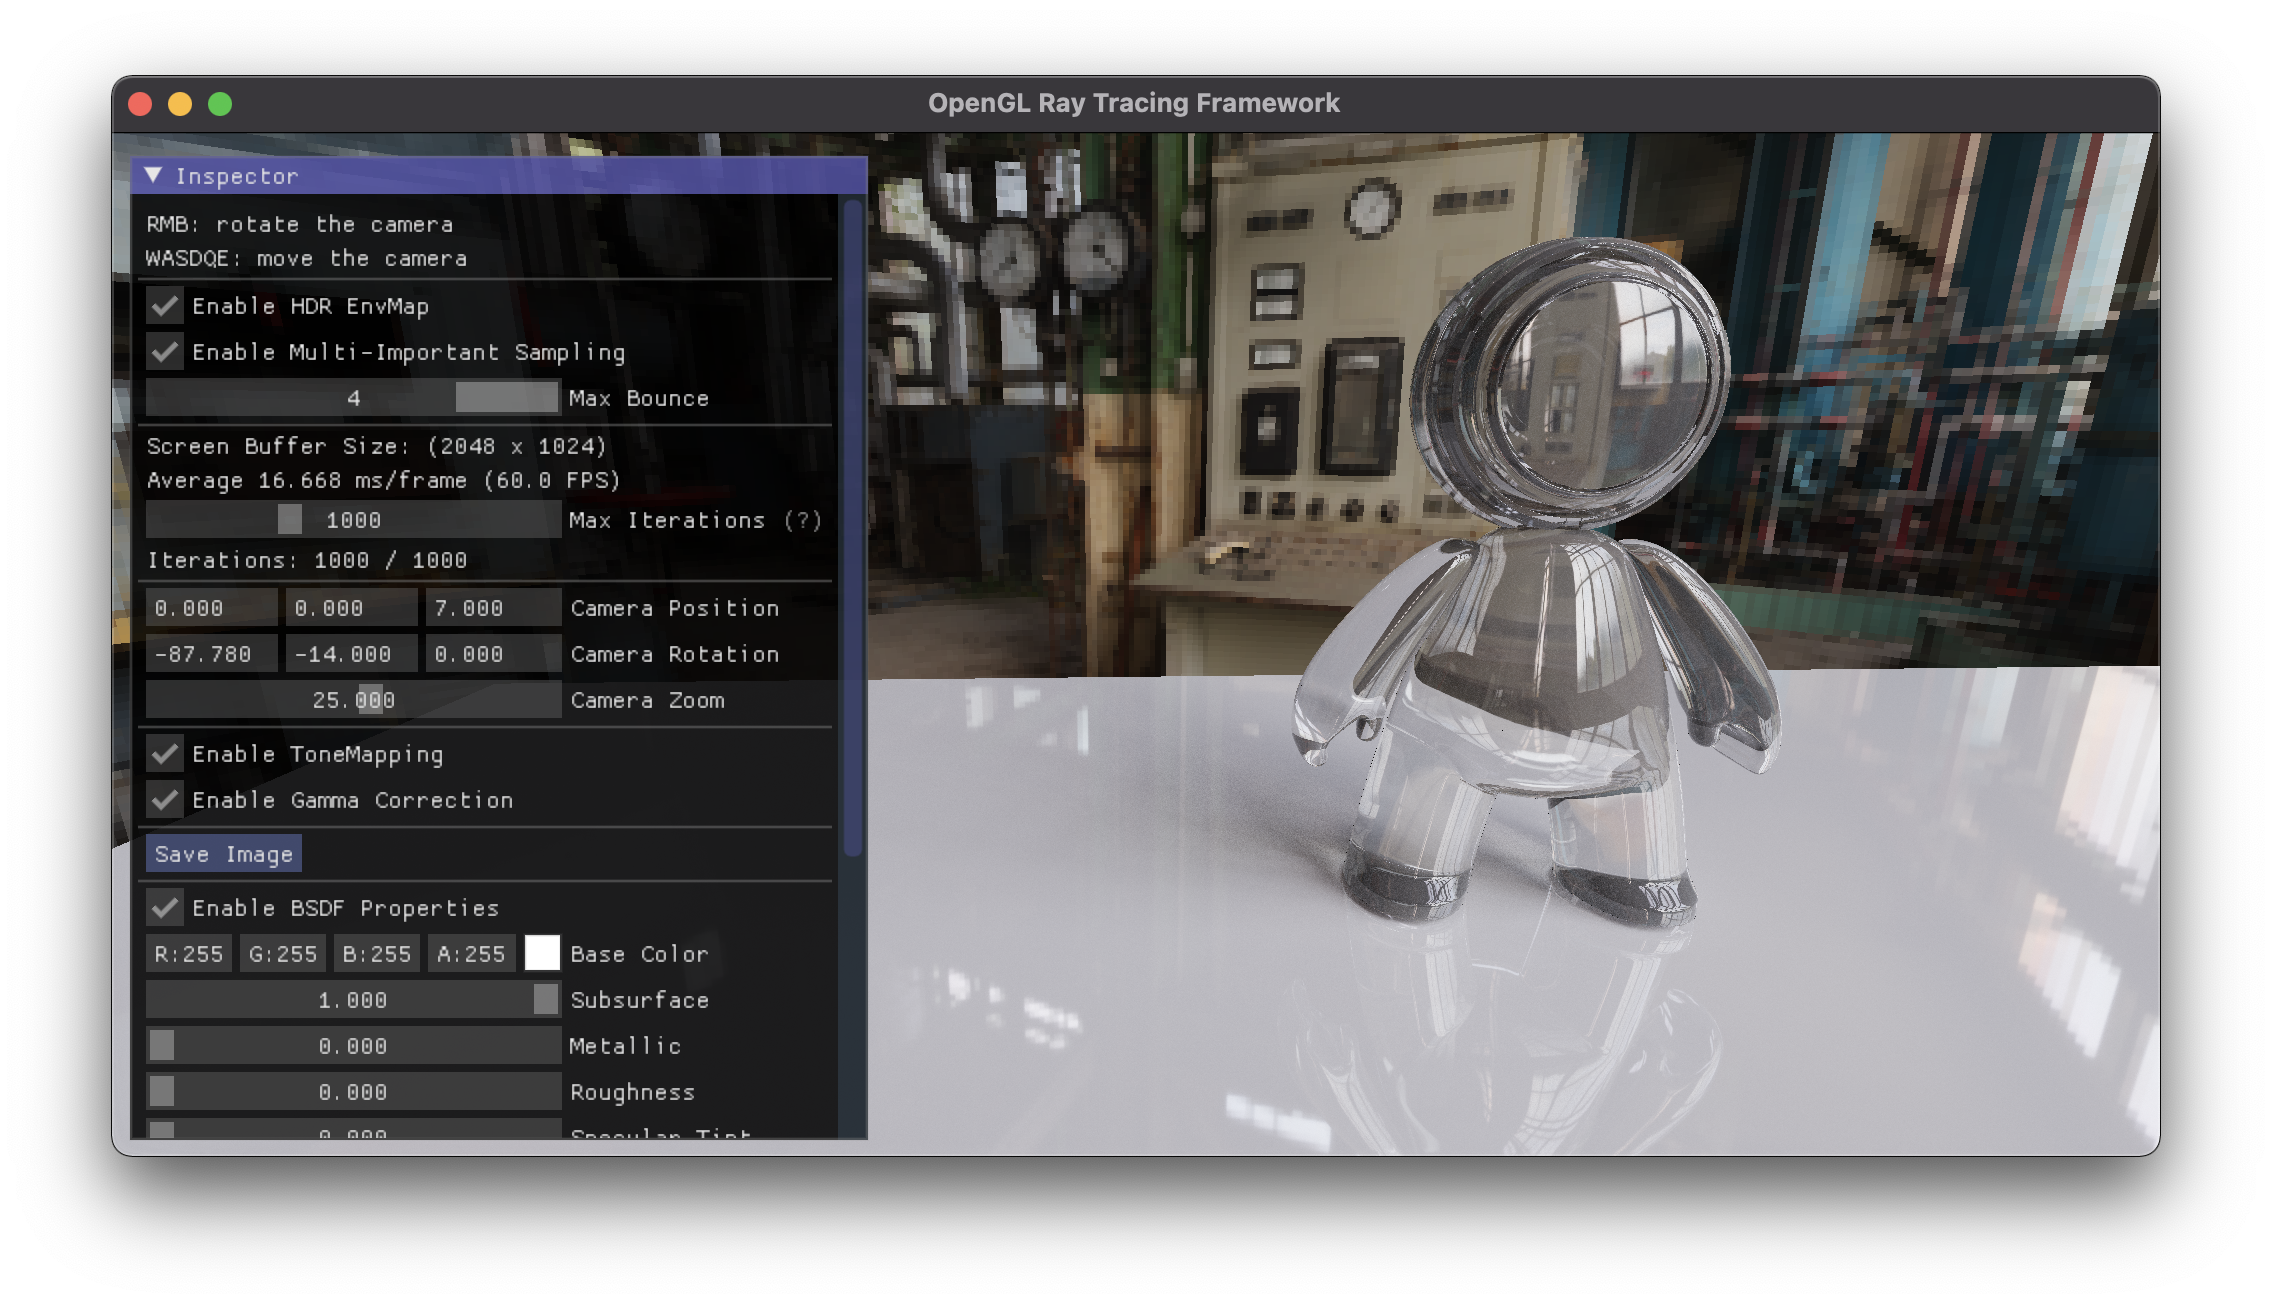
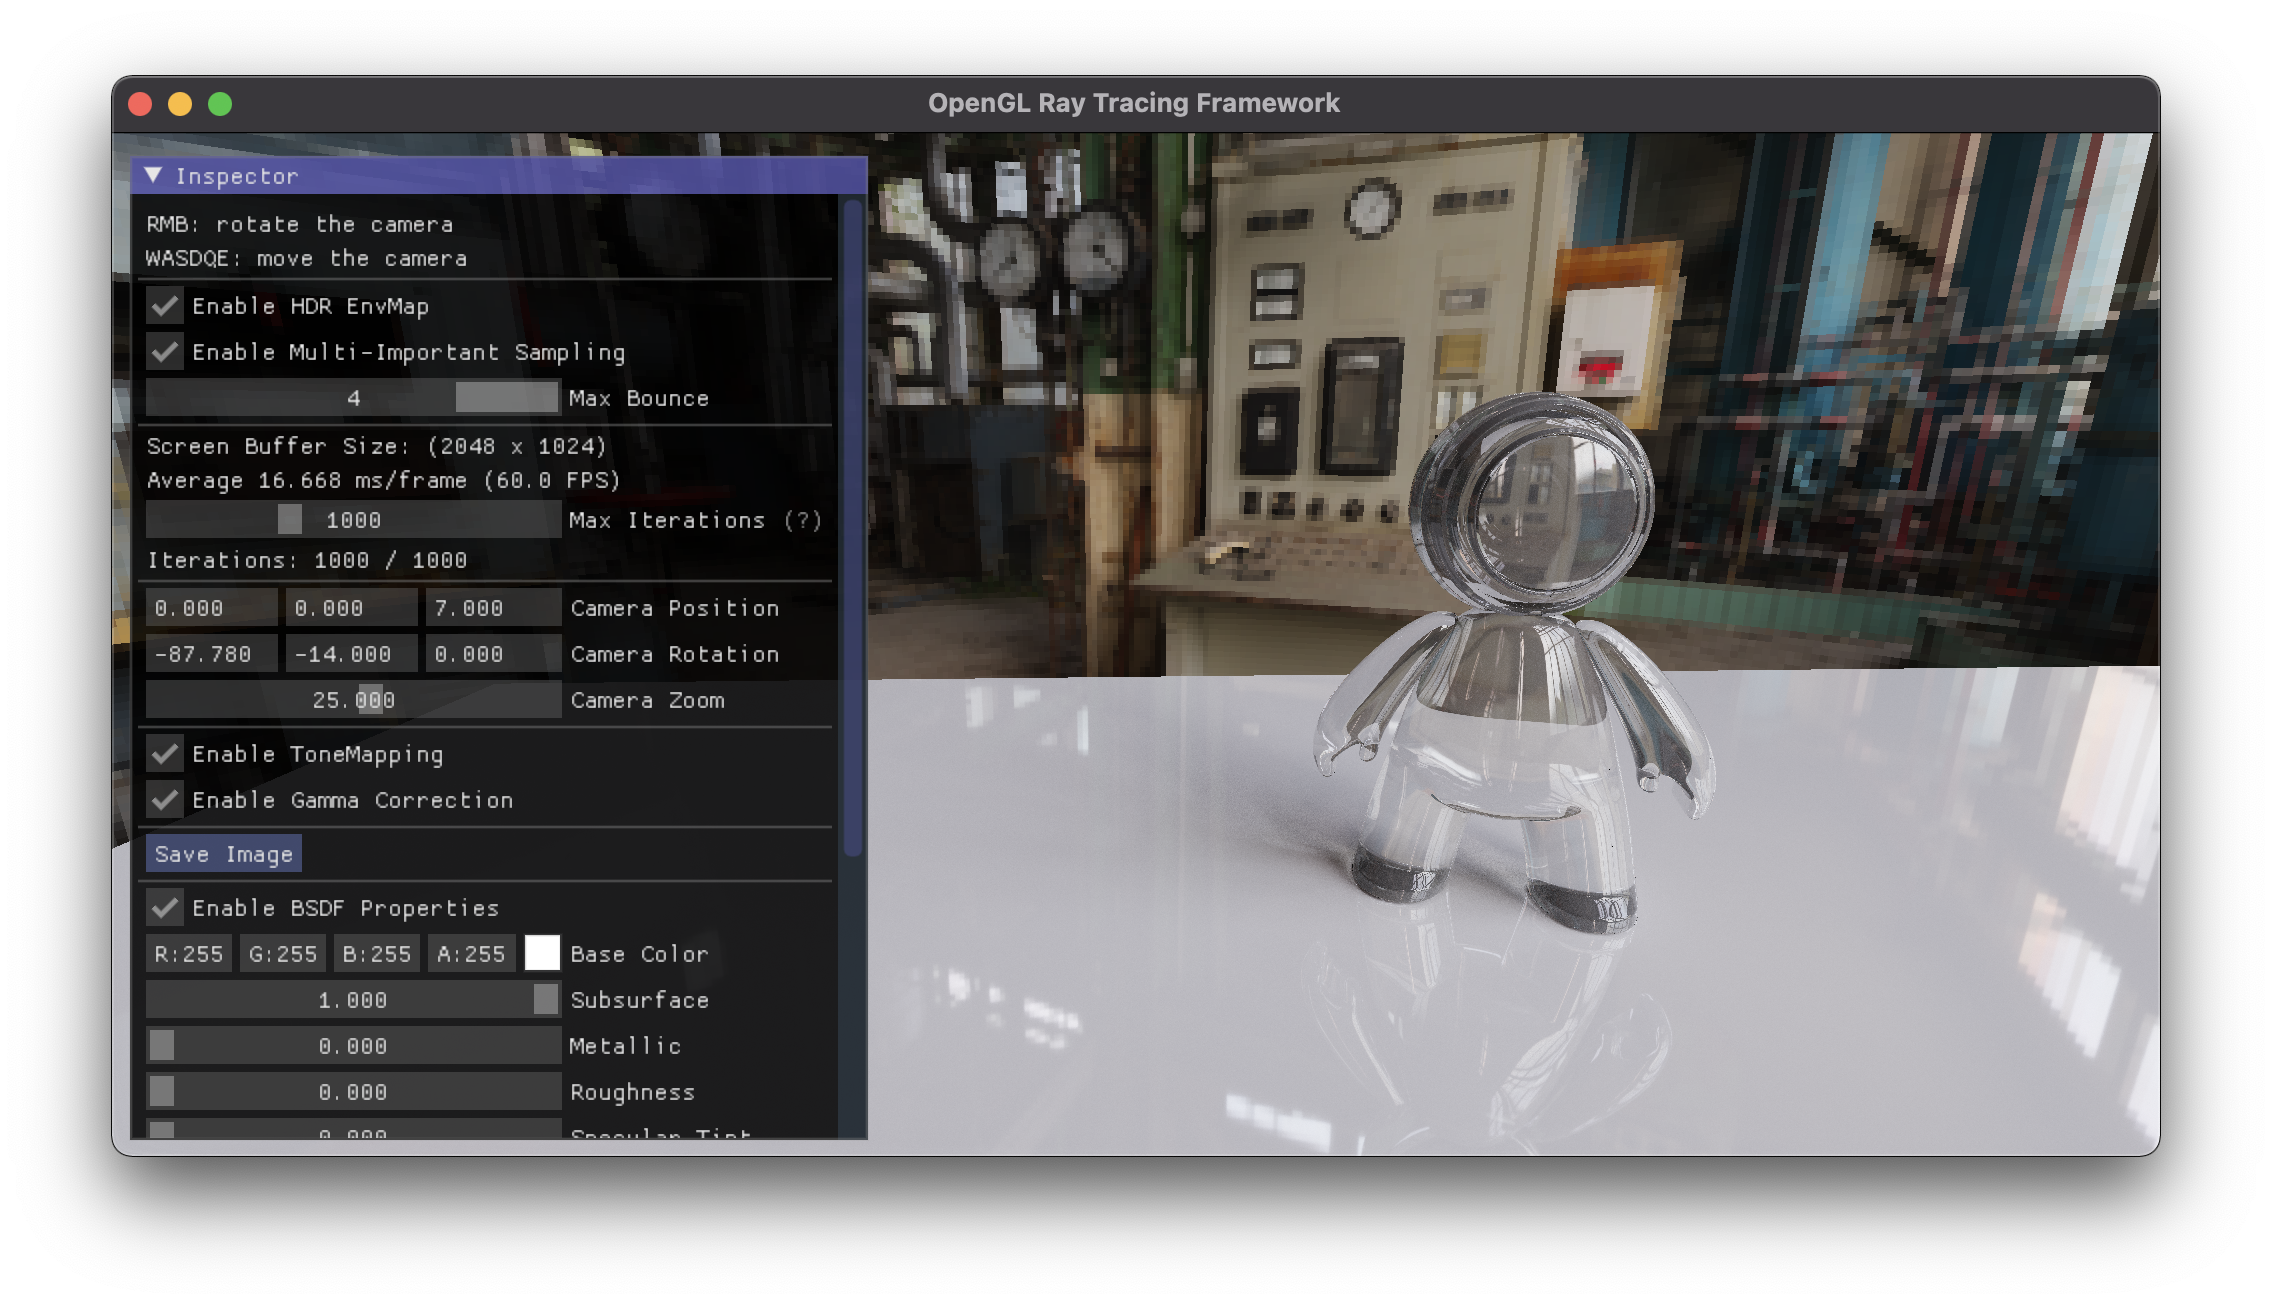
Handle OSX OpenGL version

Changed region(s): [[0.5625, 0.184, 0.7812, 0.7362]]

diff --git a/src/sources/main.cpp b/src/sources/main.cpp
@@ -77,9 +77,15 @@ int hdrResolution;
 int main() {
 
     glfwInit();
+#ifdef __APPLE__
+    const char *glsl_version = "#version 410";
+    glfwWindowHint(GLFW_CONTEXT_VERSION_MAJOR, 4);
+    glfwWindowHint(GLFW_CONTEXT_VERSION_MINOR, 1);
+#else
     const char *glsl_version = "#version 450";
     glfwWindowHint(GLFW_CONTEXT_VERSION_MAJOR, 4);
     glfwWindowHint(GLFW_CONTEXT_VERSION_MINOR, 5);
+#endif
     glfwWindowHint(GLFW_OPENGL_PROFILE, GLFW_OPENGL_CORE_PROFILE);
 
 #ifdef __APPLE__
@@ -117,7 +123,9 @@ int main() {
     Shader RayTracerShader(vertexShaderPath,"../../src/shaders/fragment_shader_ray_tracing.glsl");
     Shader ScreenShader(vertexShaderPath, "../../src/shaders/fragment_shader_screen.glsl");
     Shader ToneMappingShader(vertexShaderPath,"../../src/shaders/fragment_shader_tone_mapping.glsl");
+#ifndef __APPLE__
     Shader CompShader("../../src/shaders/compute_shader_test.glsl");
+#endif
 
     Screen screen;
     screen.InitScreenBind();
@@ -213,11 +221,11 @@ int main() {
 
     Model boy_body("../../resources/objects/substance_boy/body.obj");
     getTriangle(boy_body.meshes, triangles, current_material,
-                getTransformMatrix(vec3(0, -100, 0), vec3(1.7, -1.25, 3.5), vec3(0.8)), true);
+                getTransformMatrix(vec3(0, -110, 0), vec3(1.7, -1.25, 3.5), vec3(0.8)), true);
 
     Model boy_head("../../resources/objects/substance_boy/head.obj");
     getTriangle(boy_head.meshes, triangles, current_material,
-                getTransformMatrix(vec3(0, -100, 0), vec3(1.7, -0.33, 3.6), vec3(0.8)), true);
+                getTransformMatrix(vec3(0, -95, 0), vec3(1.7, -0.33, 3.6), vec3(0.8)), true);
 
 #pragma endregion
 
@@ -340,6 +348,7 @@ int main() {
         cameraRotation[i] = camera.Rotation[i];
     }
 
+#ifndef __APPLE__
     // dimensions of the image
     GLuint tex_output;
     glGenTextures(1, &tex_output);
@@ -372,7 +381,7 @@ int main() {
 
     // glGetIntegerv(GL_MAX_COMPUTE_WORK_GROUP_INVOCATIONS, &work_grp_inv);
     // printf("max local work group invocations %i\n", work_grp_inv);
-
+#endif
 
     // Render Loop
     // -----------
@@ -590,20 +599,22 @@ int main() {
             screen.DrawScreen();
         }
 
-        // {
-        //     CompShader.use();
-        //     // glBindImageTexture(0, tex, 0, GL_FALSE, 0, GL_WRITE_ONLY, GL_RGBA32F);
-        //     glDispatchCompute((GLuint)width, (GLuint)height, 1);
-        //     glMemoryBarrier(GL_SHADER_IMAGE_ACCESS_BARRIER_BIT);
-        //
-        //     glClearColor(0.2f, 0.3f, 0.3f, 1.0f);
-        //     glClear(GL_COLOR_BUFFER_BIT);
-        //
-        //     ScreenShader.use();
-        //     glActiveTexture(GL_TEXTURE0);
-        //     glBindTexture(GL_TEXTURE_2D, tex_output);
-        //     screen.DrawScreen();
-        // }
+#ifndef __APPLE__
+        {
+            CompShader.use();
+            // glBindImageTexture(0, tex, 0, GL_FALSE, 0, GL_WRITE_ONLY, GL_RGBA32F);
+            glDispatchCompute((GLuint)width, (GLuint)height, 1);
+            glMemoryBarrier(GL_SHADER_IMAGE_ACCESS_BARRIER_BIT);
+
+            glClearColor(0.2f, 0.3f, 0.3f, 1.0f);
+            glClear(GL_COLOR_BUFFER_BIT);
+
+            ScreenShader.use();
+            glActiveTexture(GL_TEXTURE0);
+            glBindTexture(GL_TEXTURE_2D, tex_output);
+            screen.DrawScreen();
+        }
+#endif
 
         ImGui::Render();
         ImGui_ImplOpenGL3_RenderDrawData(ImGui::GetDrawData());

diff --git a/src/core/Shader.h b/src/core/Shader.h
@@ -44,6 +44,14 @@ public:
             // 转化到 string
             vertexCode = vShaderStream.str();
             fragmentCode = fShaderStream.str();
+
+#ifdef __APPLE__
+            vertexCode = "\n#version 410\n" + vertexCode;
+            fragmentCode = "\n#version 410\n" + fragmentCode;
+#else
+            vertexCode = "\n#version 450\n" + vertexCode;
+            fragmentCode = "\n#version 450\n" + fragmentCode;
+#endif
         }
         catch (std::ifstream::failure failure) {
             std::cout << "ERROR::SHADER:FILE_NOT_SUCCESSFULLY_READ" << std::endl;
